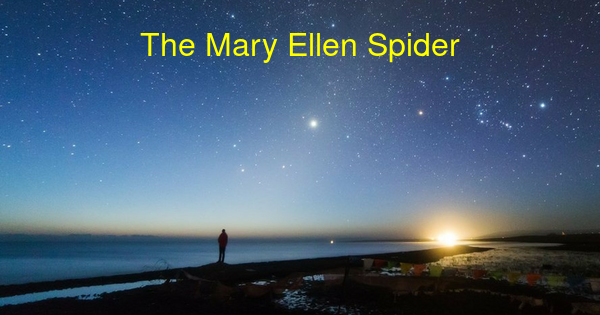
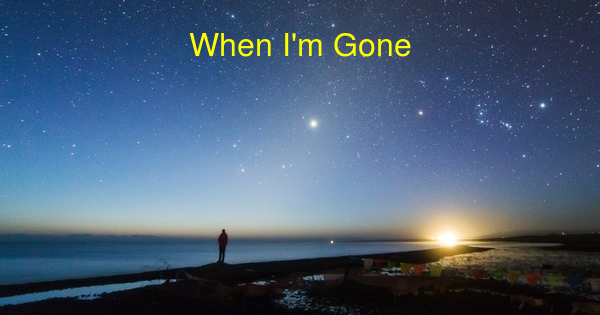
Boston 2024 fixes

Changed region(s): [[0.24, 0.0857, 0.78, 0.2]]

diff --git a/songs/The_Mary_Ellen_Spider/gen/index.html b/songs/The_Mary_Ellen_Spider/gen/index.html
@@ -1,0 +1,88 @@
+<html>
+  <head>
+    <title>The Mary Ellen Spider</title>
+    <meta charset="utf-8">
+	<meta name="viewport" content="width=device-width initial-scale=1.0">
+    <link rel=stylesheet href=../../../theme.css>
+    <script src='../../../theme-switcher.js'></script>
+    <meta property='og:image' content='https://secularsolstice.github.io/songs/The_Mary_Ellen_Spider/gen/thumb.png' />
+    <meta name='twitter:image' content='https://secularsolstice.github.io/songs/The_Mary_Ellen_Spider/gen/thumb.png' />
+    <meta property='og:title' content='The Mary Ellen Spider' />
+    <meta property='og:description' content=' Tune by Stan Rogers, Lyrics by Bob Blue //  A metaphor of persistance // This is a parody of Mary Ellen Carter, a bit sillier and with even less subtext. Various versions of this exist, with the earliest I (Skyler) am aware of being Tom Smiths version [on youtube](https://www.youtube.com/watch?v=Xn4xmAwkcFs). Sometimes this is called Eensie Weensie Spider, but theres a different song sometimes using that title. // ' />
+  </head>  <body> 
+    <div class=header>
+      <a href="/">Home</a>
+      <a href="/lists/gen/All_Songs.html">Songs</a>
+      <a href="/lists/gen/All_Speeches.html">Speeches</a>
+      <a href="/misc/gen/Programs.html">Programs</a>
+    </div>
+<div class=notes>
+<h1 id="the-mary-ellen-spider">The Mary Ellen Spider</h1>
+<h2 id="tune-by-stan-rogers-lyrics-by-bob-blue">Tune by Stan Rogers,
+Lyrics by Bob Blue</h2>
+<h2 id="a-metaphor-of-persistance">A metaphor of persistance</h2>
+<p>This is a parody of Mary Ellen Carter, a bit sillier and with even
+less subtext. Various versions of this exist, with the earliest I
+(Skyler) am aware of being Tom Smith’s version <a
+href="https://www.youtube.com/watch?v=Xn4xmAwkcFs">on youtube</a>.
+Sometimes this is called Eensie Weensie Spider, but there’s a different
+song sometimes using that title.</p>
+<p><a
+href="https://www.jefftk.com/solstice-2024/14-MaryEllenSpider.mp3">An
+audio recording from Boston 2024</a> is also available.</p>
+<p><a href=https://github.com/SecularSolstice/SecularSolstice.github.io/edit/master/songs/The_Mary_Ellen_Spider/README.md class=editbutton>edit description</a></p>
+</div>
+<h2>Lyrics</h2><p class=lyrics>
+The eensie-weensie spider went up the water spout<br>
+Down came the rain and washed the spider out<br>
+Out came the sun and dried up all the rain<br>
+And the eensie-weensie spider climbed again<br>
+<br>
+She wouldn't let the elements distract her from her goal;<br>
+The purpose of her struggle was embedded in her soul.<br>
+Now, see the sun shine down on beasts, on women and on men<br>
+And like the eensie-weensie spider, rise again!<br>
+<br>
+Rise again, rise again!<br>
+She will not let misfortune keep her from doing what she can,<br>
+So whether your legs number two, or four, or eight, or ten,<br>
+Be like that eensie-weensie spider, rise again!<br>
+<br>
+This eensie weensie metaphor's a lesson for us all -<br>
+We cannot be defeated if we rise each time we fall,<br>
+And if you think this story's one you learned too long ago,<br>
+Then think about some other ones you know.<br>
+<br>
+You know the myth of Sisyphus, and you know Jack and Jill<br>
+It's such a potent image going up and down a hill,<br>
+So every time you fall, or lose a lover or a friend,<br>
+Be like that eensie-weensie spider: Rise again!<br>
+<br>
+Rise again, rise again!<br>
+She will not let misfortune keep her from doing what she can,<br>
+So whether your legs number two, or four, or eight, or ten,<br>
+Be like that eensie-weensie spider, rise again!<br>
+<br>
+Perhaps you think this allegory goes a bit too far<br>
+Climbing up a pipe is not like reaching for a star<br>
+But whether its's a water spout or mountain that you climb<br>
+You've come this far; indulge me one more time.<br>
+<br>
+It could be said that each of us climbs up a water spout.<br>
+The downward pull of gravity is not what it's about:<br>
+The upward pull of hope is what will save us in the end.<br>
+Be like that eensie-weensie spider: Rise again!<br>
+<br>
+Rise again, Rise again!<br>
+Never let misfortune keep your from doing what you can,<br>
+And whether your legs number two, or four, or eight, or ten,<br>
+Be like the eensie-weensie spider: Rise again!<br>
+</p>
+<h2>Files</h2><ul>
+<li><a href=lyrics.txt>lyrics.txt</a>
+<li><a href=thumb.png>thumb.png</a>
+<li><a href=../chords.jkc>chords.jkc</a>
+<a href=https://github.com/SecularSolstice/SecularSolstice.github.io/edit/master/songs/The_Mary_Ellen_Spider/chords.jkc class=editbutton>edit</a>
+</ul>
+<a class=rawgit href=https://github.com/SecularSolstice/SecularSolstice.github.io/tree/master/songs/The_Mary_Ellen_Spider>Raw Git Folder</a>
+</body></html>

diff --git a/songs/When_Im_Gone/gen/index.html b/songs/When_Im_Gone/gen/index.html
@@ -1,14 +1,14 @@
 <html>
   <head>
-    <title>The Mary Ellen Spider</title>
+    <title>When I'm Gone</title>
     <meta charset="utf-8">
 	<meta name="viewport" content="width=device-width initial-scale=1.0">
     <link rel=stylesheet href=../../../theme.css>
     <script src='../../../theme-switcher.js'></script>
     <meta property='og:image' content='https://secularsolstice.github.io/songs/When_Im_Gone/gen/thumb.png' />
     <meta name='twitter:image' content='https://secularsolstice.github.io/songs/When_Im_Gone/gen/thumb.png' />
-    <meta property='og:title' content='The Mary Ellen Spider' />
-    <meta property='og:description' content=' Tune by Stan Rogers, Lyrics by Bob Blue //  A metaphor of persistance // This is a parody of Mary Ellen Carter, a bit sillier and with even less subtext. Various versions of this exist, with the earliest Im aware of being Tom Smiths version [on youtube](https://www.youtube.com/watch?v=Xn4xmAwkcFs). Sometimes this is called Eensie Weensie Spider, but theres a different song sometimes using that title.' />
+    <meta property='og:title' content='When I'm Gone' />
+    <meta property='og:description' content=' by Phil Ochs //  All the things that can only be done while here // [Original on youtube](https://www.youtube.com/watch?v=CXVBPRlm-qw)' />
   </head>  <body> 
     <div class=header>
       <a href="/">Home</a>
@@ -17,10 +17,12 @@
       <a href="/misc/gen/Programs.html">Programs</a>
     </div>
 <div class=notes>
-<h1 id="the-mary-ellen-spider">The Mary Ellen Spider</h1>
-<h2 id="tune-by-stan-rogers-lyrics-by-bob-blue">Tune by Stan Rogers, Lyrics by Bob Blue</h2>
-<h2 id="a-metaphor-of-persistance">A metaphor of persistance</h2>
-<p>This is a parody of Mary Ellen Carter, a bit sillier and with even less subtext. Various versions of this exist, with the earliest I’m aware of being Tom Smith’s version <a href="https://www.youtube.com/watch?v=Xn4xmAwkcFs">on youtube</a>. Sometimes this is called Eensie Weensie Spider, but there’s a different song sometimes using that title.</p>
+<h1 id="when-im-gone">When I’m Gone</h1>
+<h2 id="by-phil-ochs">by Phil Ochs</h2>
+<h2 id="all-the-things-that-can-only-be-done-while-here">All the things
+that can only be done while here</h2>
+<p><a href="https://www.youtube.com/watch?v=CXVBPRlm-qw">Original on
+youtube</a></p>
 <p><a href=https://github.com/SecularSolstice/SecularSolstice.github.io/edit/master/songs/When_Im_Gone/README.md class=editbutton>edit description</a></p>
 </div>
 <h2>Lyrics</h2><p class=lyrics>

diff --git a/songs/When_Im_Gone/README.md b/songs/When_Im_Gone/README.md
@@ -1,5 +1,5 @@
-# The Mary Ellen Spider
-## Tune by Stan Rogers, Lyrics by Bob Blue
-## A metaphor of persistance
+# When I'm Gone
+## by Phil Ochs
+## All the things that can only be done while here
 
-This is a parody of Mary Ellen Carter, a bit sillier and with even less subtext. Various versions of this exist, with the earliest I'm aware of being Tom Smith's version [on youtube](https://www.youtube.com/watch?v=Xn4xmAwkcFs). Sometimes this is called Eensie Weensie Spider, but there's a different song sometimes using that title.
+[Original on youtube](https://www.youtube.com/watch?v=CXVBPRlm-qw)

diff --git a/songs/The_Mary_Ellen_Spider/README.md b/songs/The_Mary_Ellen_Spider/README.md
@@ -1,0 +1,7 @@
+# The Mary Ellen Spider
+## by Stan Rogers (tune) and Bob Blue (lyrics)
+## A metaphor of persistance
+
+This is a parody of Mary Ellen Carter, a bit sillier and with even less subtext. Various versions of this exist, with the earliest I (Skyler) am aware of being Tom Smith's version [on youtube](https://www.youtube.com/watch?v=Xn4xmAwkcFs). Sometimes this is called Eensie Weensie Spider, but there's a different song sometimes using that title.
+
+[An audio recording from Boston 2024](https://www.jefftk.com/solstice-2024/14-MaryEllenSpider.mp3) is also available.
